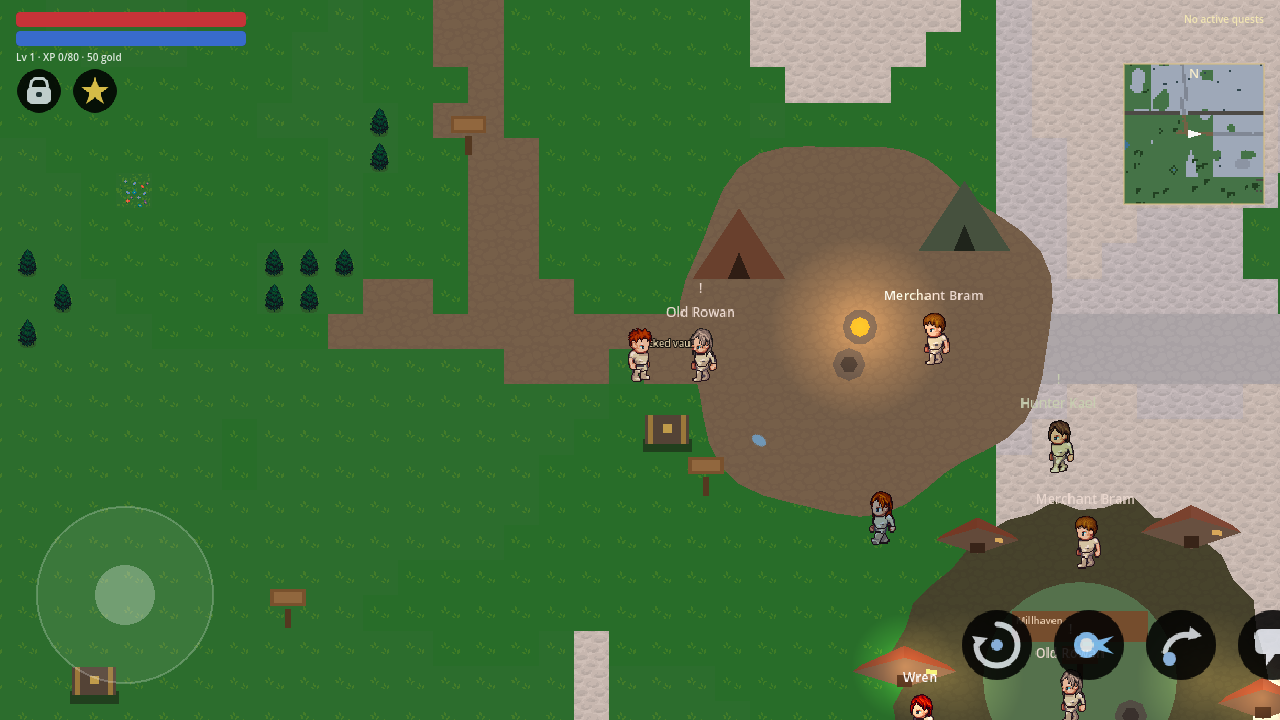
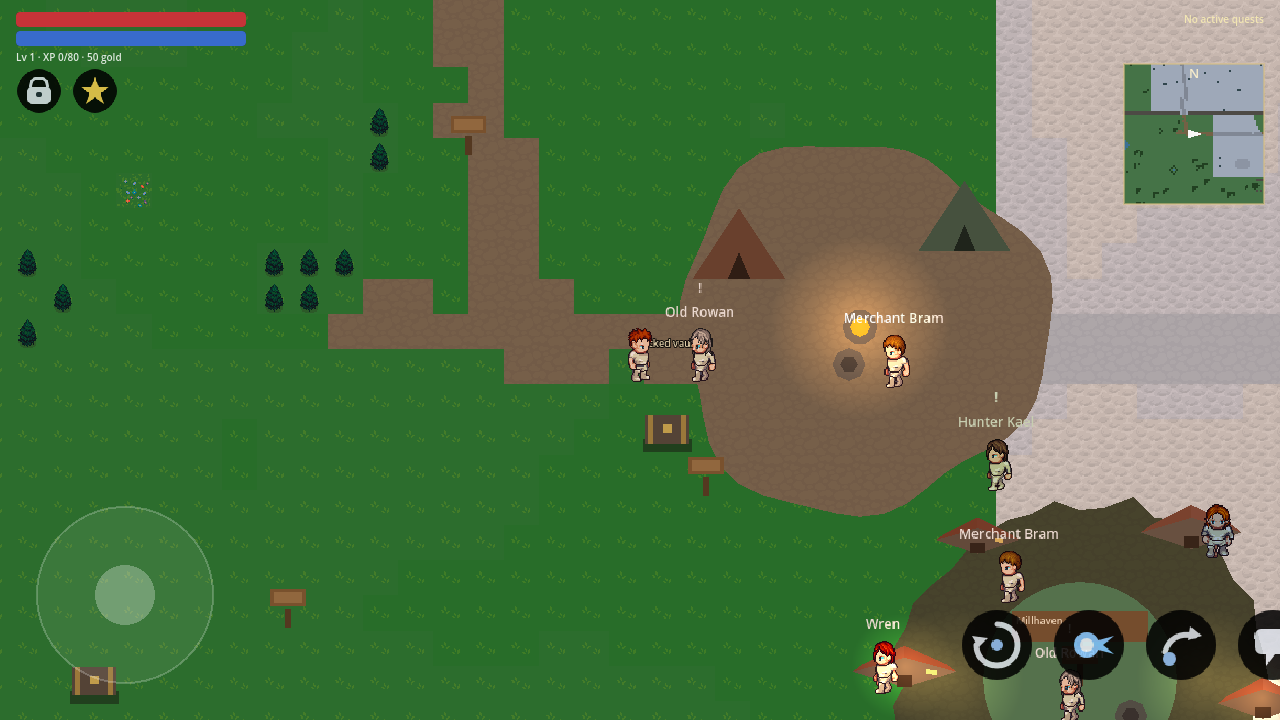
docs: capture the audit appendix, the coast decision and the CI screenshots
* The audit report's appendix now records the two bugs CI itself caught during
  this pass (the spent projectile that kept dealing damage, and the 32-tile
  biome staircase), with the final verification block and the CI run id.
* DECISIONS #53 explains why biome ownership stays per chunk while the ground is
  painted per tile, and what invariants were held while changing it.
* reports/rpg_shot_1.png and rpg_shot_2.png are the capture artifact from that
  green run, kept as visual evidence of the meandering coast.

diff --git a/reports/game-audit-2026-09-11.md b/reports/game-audit-2026-09-11.md
@@ -305,13 +305,27 @@
 
 **میانگین ساده: 7.5 / 10** (از 5.8) · **میانگین وزندار (مکانیک ۴۰٪ → 8.3 · ارائه ۶۰٪ → 6.9): 7.5 / 10** (از 6.0)
 
+### دو باگی که خودِ CI در همین پاس گرفت
+1. **پرتابهٔ خرجشده دوباره آسیب میزد.** `projectile.gd` از داخل سیگنال `body_entered`
+   خودش به استخر برمیگشت و `monitoring = false` را مستقیم صدا میزد؛ Godot این انتساب را
+   در حین فلاش فیزیک رد میکند («Function blocked during in/out signal») و پرتابهٔ پارکشده
+   روی بازیکن زنده میماند — تا حرکت بعدی، آسیب دوباره. شغل رندر CI به همین دلیل قفل میکرد
+   (مرگ بازیکن → صفحهٔ مرگ → توقف درخت → هنگ تا تایماوت ۲۵ دقیقهای). رفع شد با `_spent`
+   + `set_deferred("monitoring", false)` + تست جدید در `CombatTest` (یک برخورد، غیرفعالشدن
+   واقعی، صفر آسیب فانتوم) و هارنسِ رندر هم `PROCESS_MODE_ALWAYS` + watchdog ۹۰ ثانیهای گرفت.
+2. **مرزِ بایوم مثل پله بود.** بعد از موجدار کردن مرزها، رندر CI نشان داد مرز در مقیاس
+   چانک پلهپله است؛ مالکیت بایوم همان چانکبهچانک ماند ولی *رنگآمیزی* زمین به مقیاس
+   کاشی منتقل شد (دکمهٔ ۵۳ در `DECISIONS.md`). شاهدِ تصویری: `reports/rpg_shot_1.png`.
+
 ### راستیآزمایی پس از اصلاح
 ```
 --import                                  clean (pass 7)
-CombatTest 180 PASS   PlaythroughTest 37 PASS   NpcTest 32 PASS   WorldMapTest 44 PASS
+--import                                  clean
+CombatTest 185 PASS   PlaythroughTest 37 PASS   NpcTest 32 PASS   WorldMapTest 44 PASS
 QuestTest   56 PASS   ItemsTest      48 PASS   SecretTest 45 PASS  AudioTest    51 PASS
 main.tscn --quit-after 300 exit 0 · main_menu.tscn exit 0
 tools/balance_report.py --check           BALANCE CHECK: PASSED
 actionlint                                clean
+CI run 34539358678 (main @ 87e25f8)       سه جاب: smoke / Android APK / visual capture — success
 ```
 

diff --git a/DECISIONS.md b/DECISIONS.md
@@ -740,3 +740,23 @@ Two fixes, because there were two faults:
 Lesson recorded: this is the same class of failure as `SecretSite._drop_loot`
 instantiated inside `body_entered` (see the secrets pass) — **anything that
 touches the scene tree or an Area2D from inside a physics signal has to defer**.
+
+**#53 — Coasts, not staircases: biome ownership is per chunk, biome paint is per tile** · 2026-09-11
+Decision #50 wobbled the borders, and the first render proved it only half-worked:
+because biome was decided per *chunk*, every seam became a 32-tile staircase — three
+rectangles replaced by a staircase is not obviously better. The fix separates two
+questions that had been one. **Ownership** stays per chunk: `Biome.biome_of()`, the
+`biome` property stamped in each `chunk_*.json`, music, ambience and the spawn tables
+all keep reading a single value per 1024-pixel chunk, so nothing about gameplay or
+streaming changes. **Paint** is now per tile: `tile_biome()` evaluates the same
+sinusoidal border with a smooth noise offset of up to ~0.4 chunk in both axes, and
+`neighbour_tile_biome()` finds the adjacent biome so the ground can blend across the
+seam. Roads, clearings and micro-location features paint on the tile's own biome for
+the same reason — a meadow-green road through snow was the alternative.
+
+Two guarantees were held while doing it: the chunk grid is byte-identical to the
+previous commit (same 8 chunks changed biome from the audit baseline), and the
+generator's RNG stream is untouched, so every spawner, chest and tree sits where it
+did and no balance number moves. The rendered capture from CI is the evidence —
+`reports/rpg_shot_1.png` / `rpg_shot_2.png` now show a wavy coast where the earlier
+capture showed steps.
